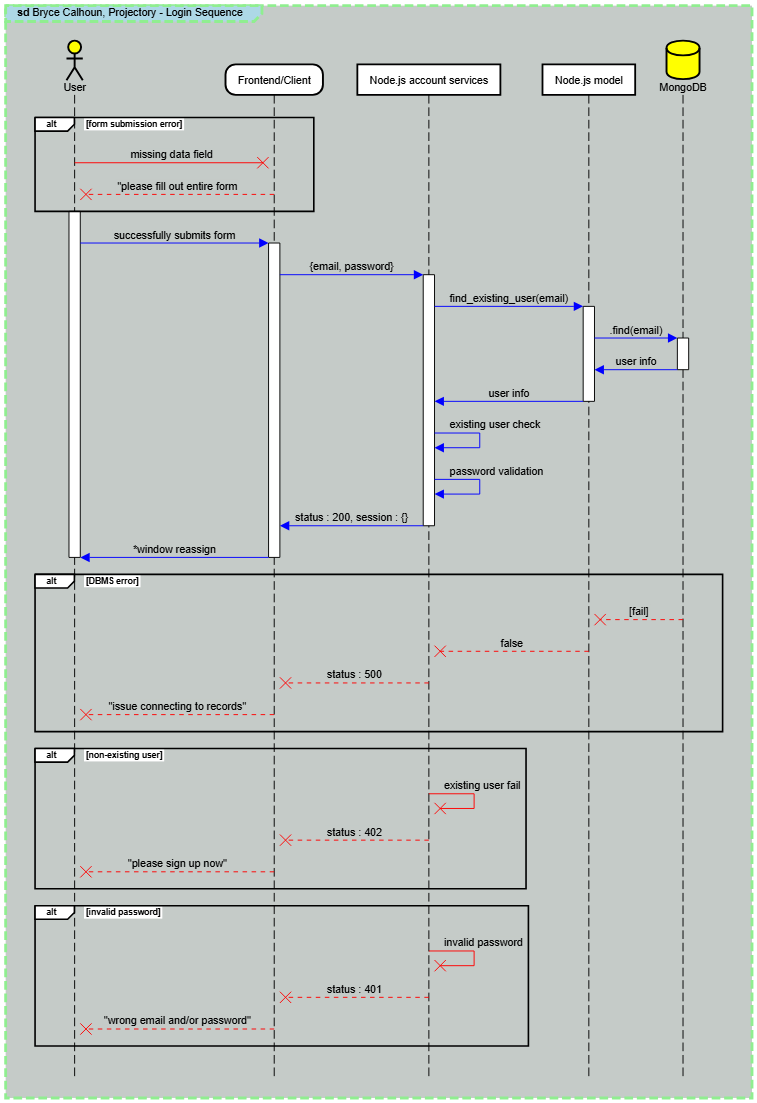
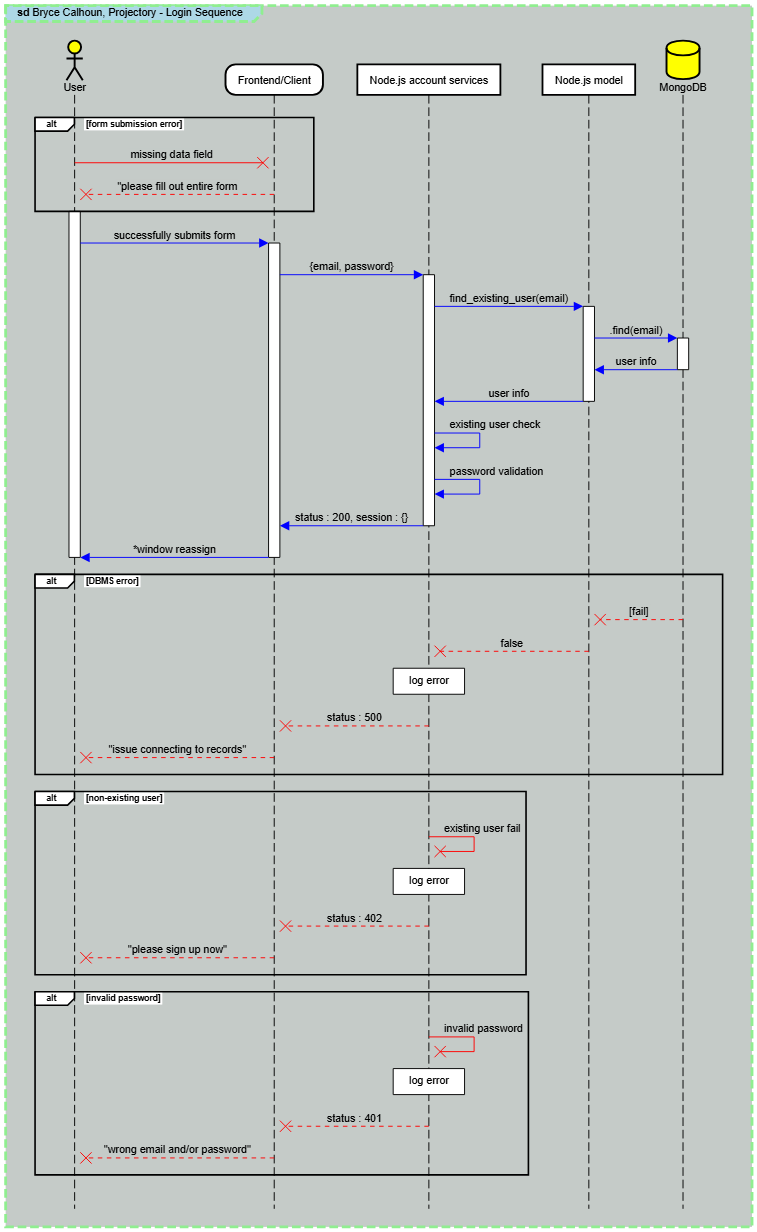
updates

diff --git a/script/script.js b/script/script.js
@@ -178,31 +178,27 @@ const check_user_login_status = async()=>{
 }
 
 
-
-
-
-
-
-
-
-
-
-
-
-
-
-
-
-
-
-
-
-
 const user_logout = async()=>{
-    let logoutResponse = await fetch(endpoints.logout, {
-        method: "POST",
-        credentials: "include"
-    });
+    try{
+        let logoutResponse = await fetch(endpoints.logout, {
+            method: "POST",
+            credentials: "include"
+        });
+        switch(logoutResponse.status){
+            case 200:
+                window.location.assign("index.html");
+                break;
+            case 500:
+                window.alert("Sorry there was an issue connecting to DBMS");
+                break;
+            default:
+                window.alert("unsuccessful logout");
+                break;
+        };
+    }catch(error){
+        console.error(error);
+        window.alert("error on request");
+    }
 }
 
 const delete_account = async(user)=>{
@@ -255,17 +251,6 @@ const remove_user_account_functionality = function(){
 
 
 
-
-
-
-
-
-
-
-
-
-
-
 const fetch_for_user_email = async()=>{
     const animationInstance = show_loading();
     try{
@@ -283,31 +268,6 @@ const fetch_for_user_email = async()=>{
     }
     return false;
 }
-
-
-
-
-
-
-
-
-
-
-
-
-
-
-
-
-
-
-
-
-
-
-
-
-
 
 
 const send_request_to_remove_a_link = async(title, user, linkText)=>{
@@ -403,29 +363,6 @@ const process_the_form_to_add_a_new_link = async(event, projects, i)=>{
     }
     show_toast("Sorry", "unable to add a new link to that project")
 }
-
-
-
-
-
-
-
-
-
-
-
-
-
-
-
-
-
-
-
-
-
-
-
 
 
 
@@ -537,8 +474,6 @@ const send_a_request_to_get_user_projects = async()=>{
         }
     }
 }
-
-
 
 
 
@@ -892,7 +827,7 @@ const dismiss_loading = function(animationInstance){
 }
 
 const backend_communication = function(){
-    //logout_functionality();
+    logout_functionality();
 
     add_task_to_new_functionality();
 
